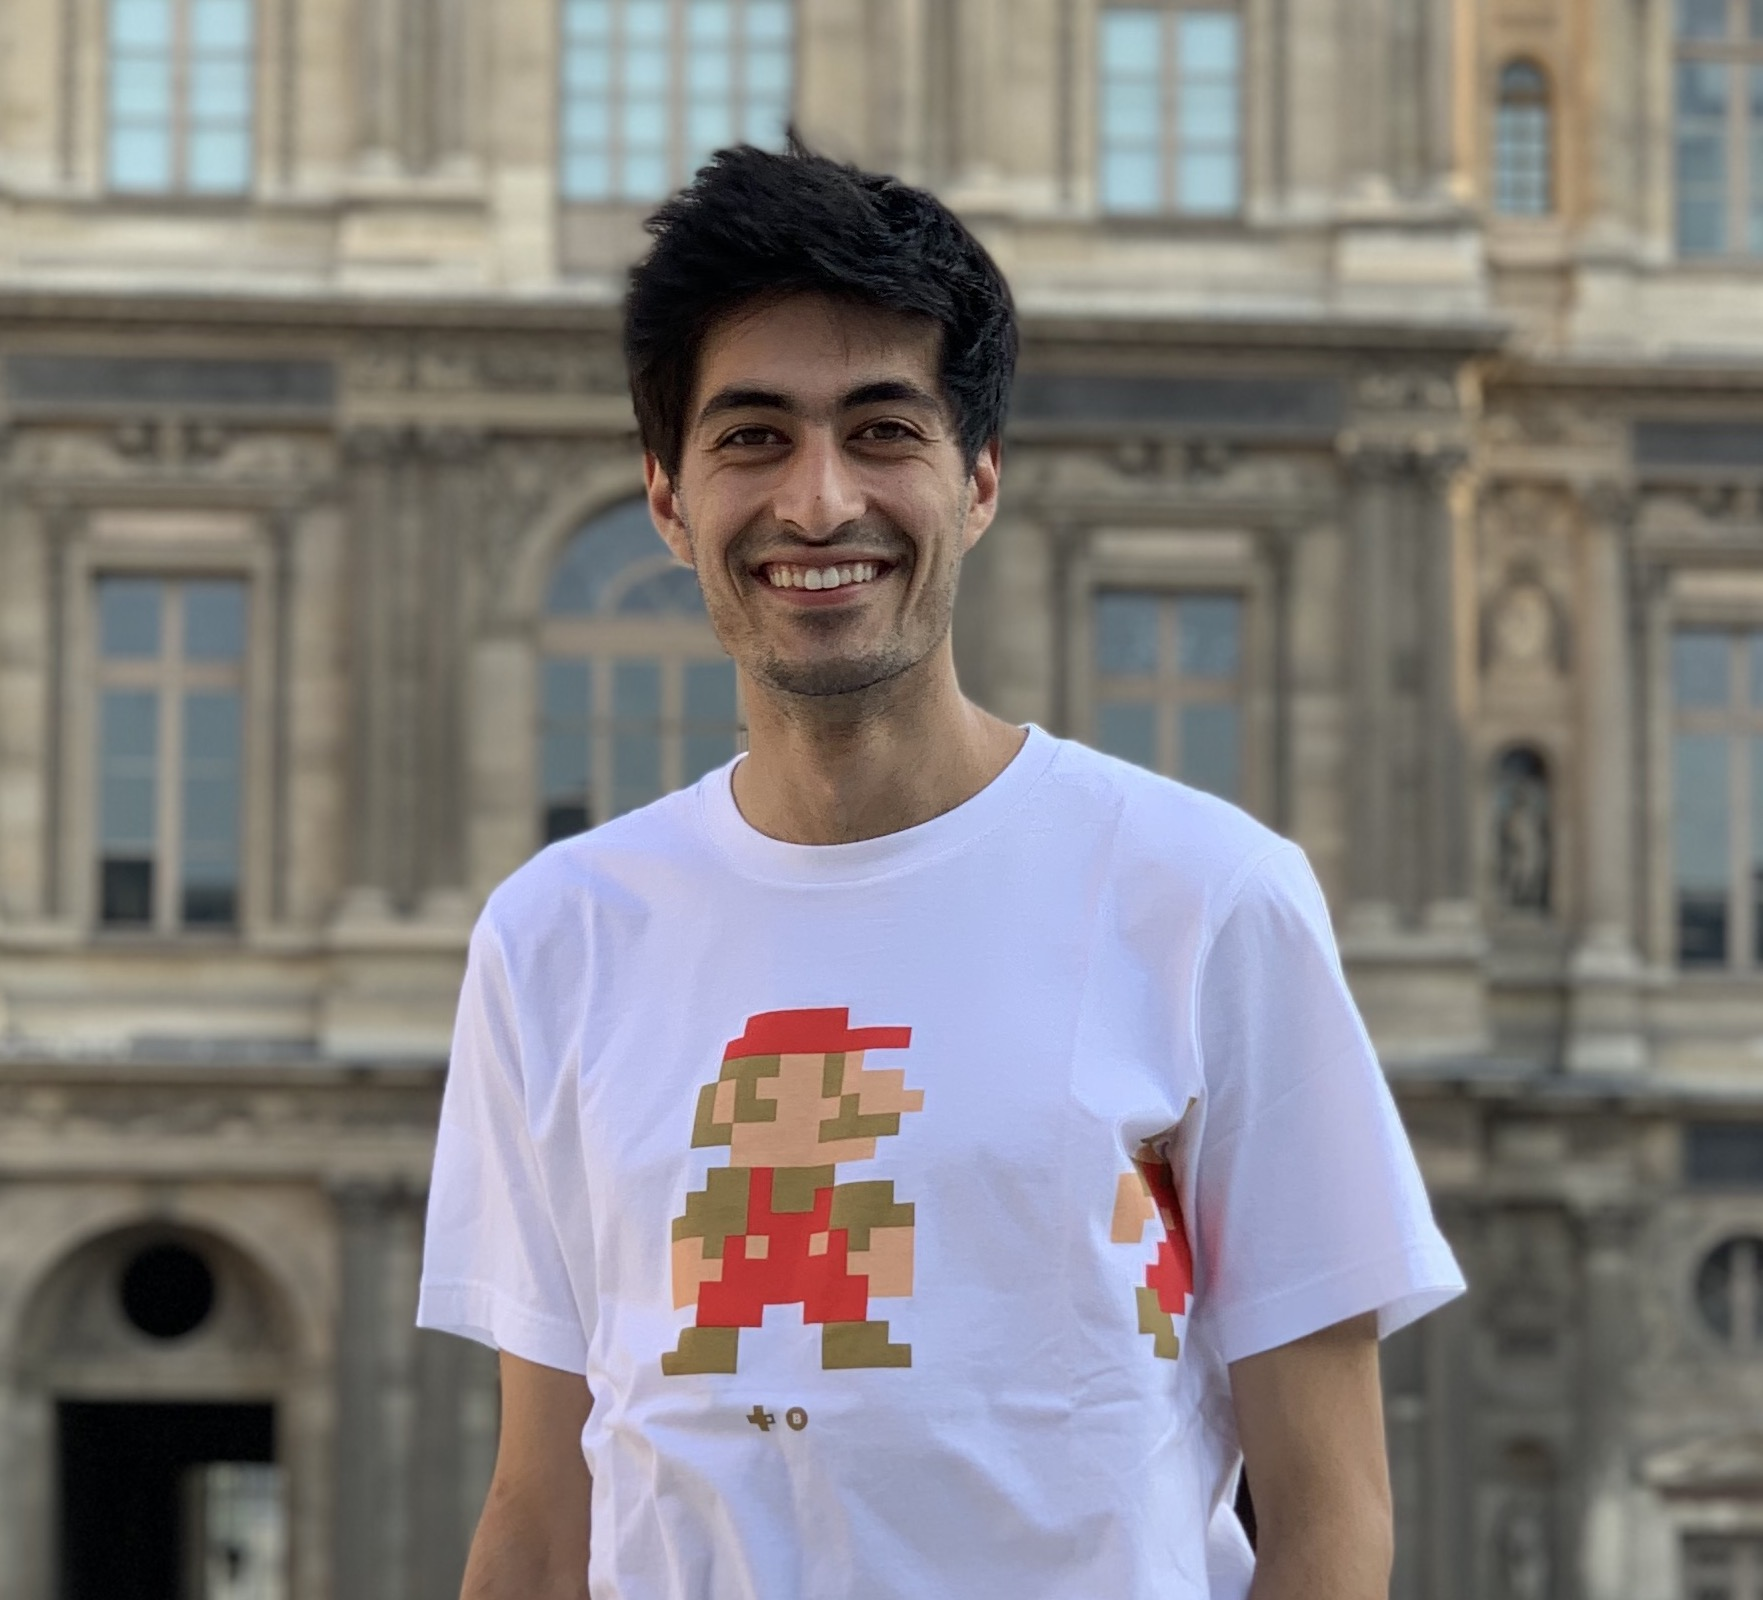
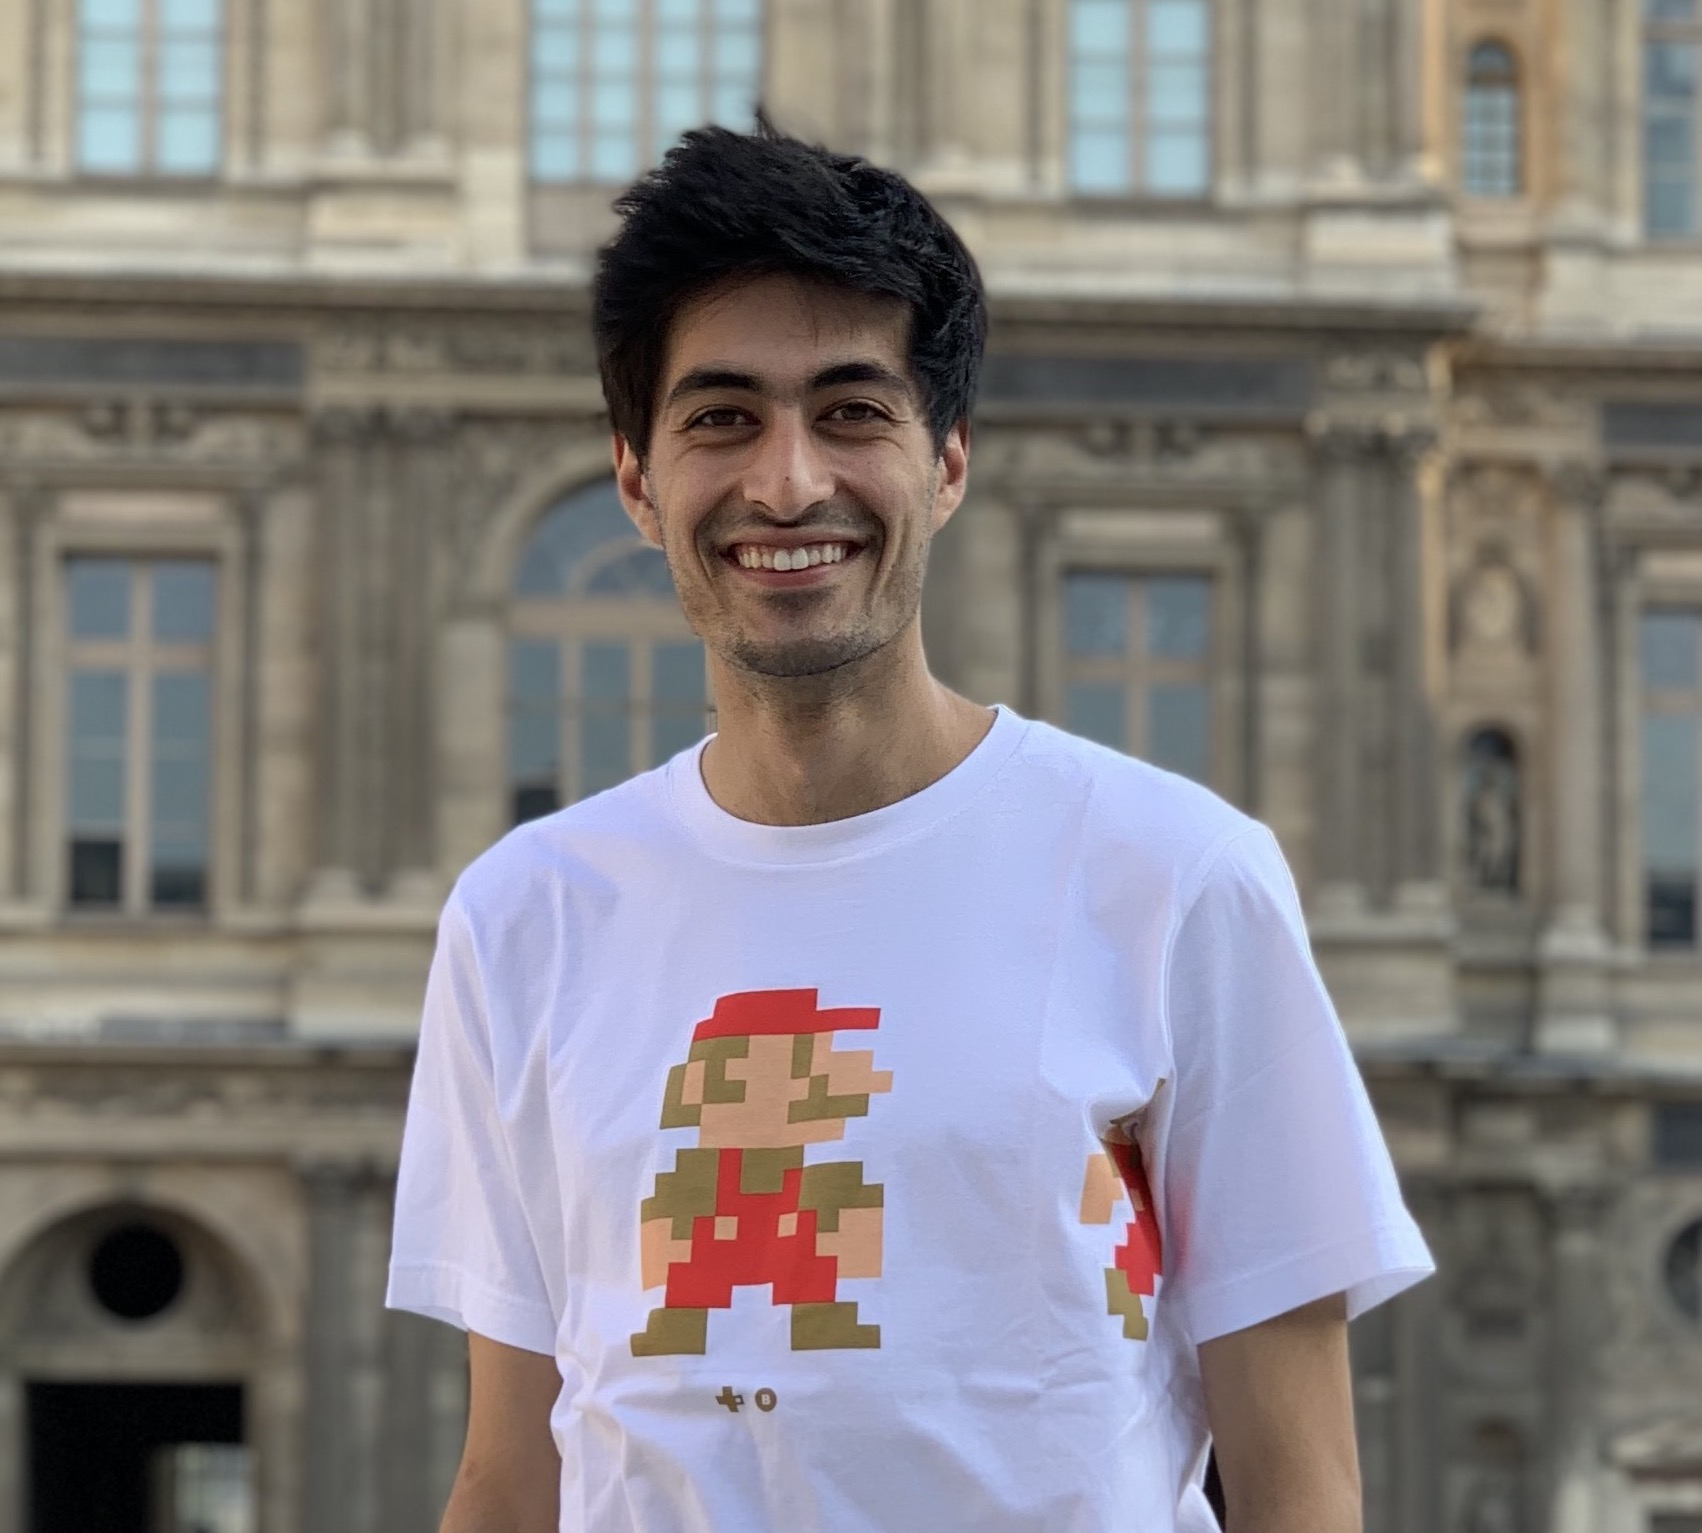
zoomed in photo and edited date on work card

diff --git a/src/Components/Cards/WorkExpCard.js b/src/Components/Cards/WorkExpCard.js
@@ -57,7 +57,7 @@ class WorkExpCard extends React.Component {
           <ListGroupItem variant="info">
             <label className="itemTitle">Freelance Software Engineer</label>
             <label className="itemDetails">Self-employed</label>
-            <label className="itemDate">2017-Current</label>
+            <label className="itemDate">2018-Current</label>
             <label className="itemInformation">
               • Developed and unit tested web, mobile, and native applications
               in various languages and frameworks including Java, Typescript,
